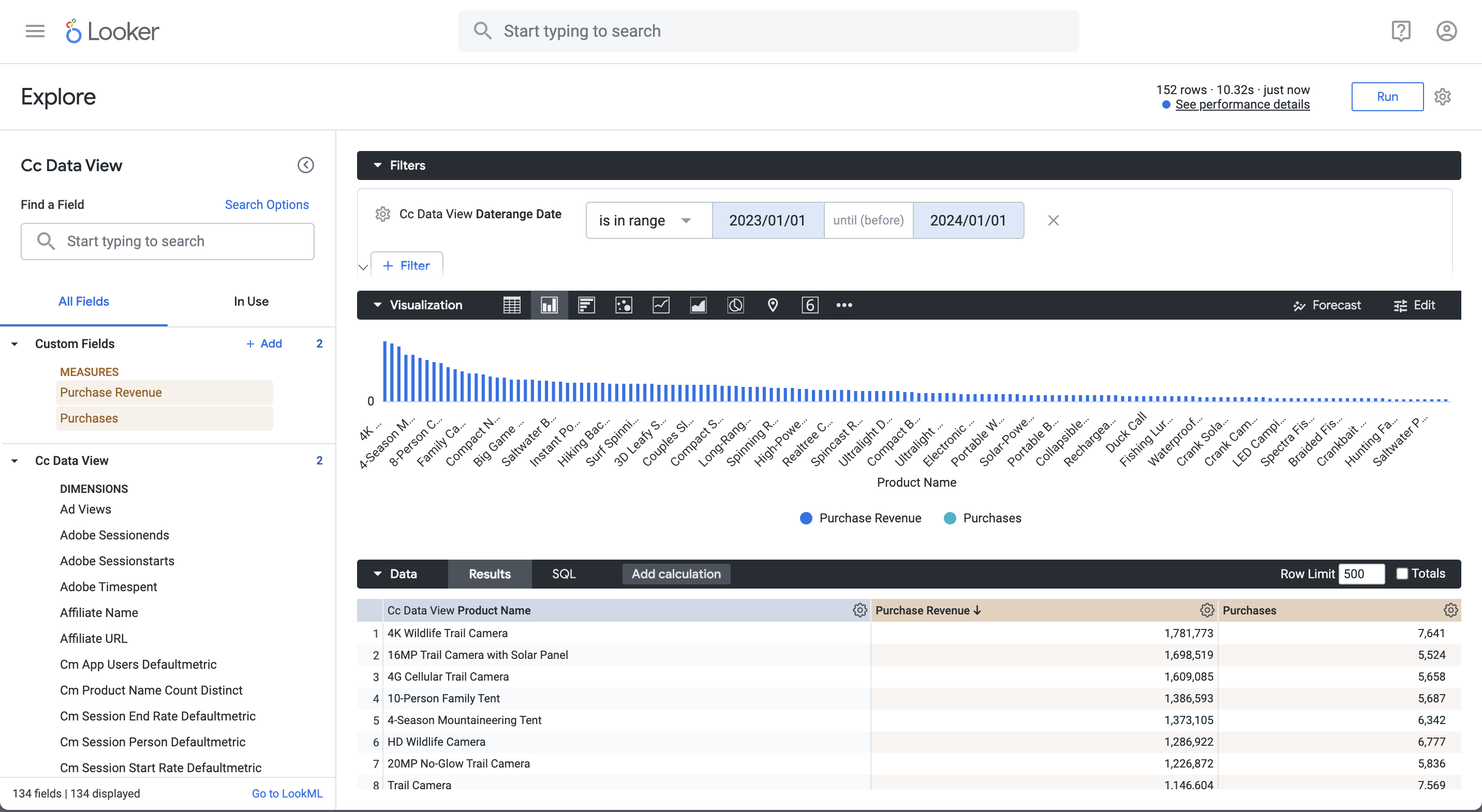
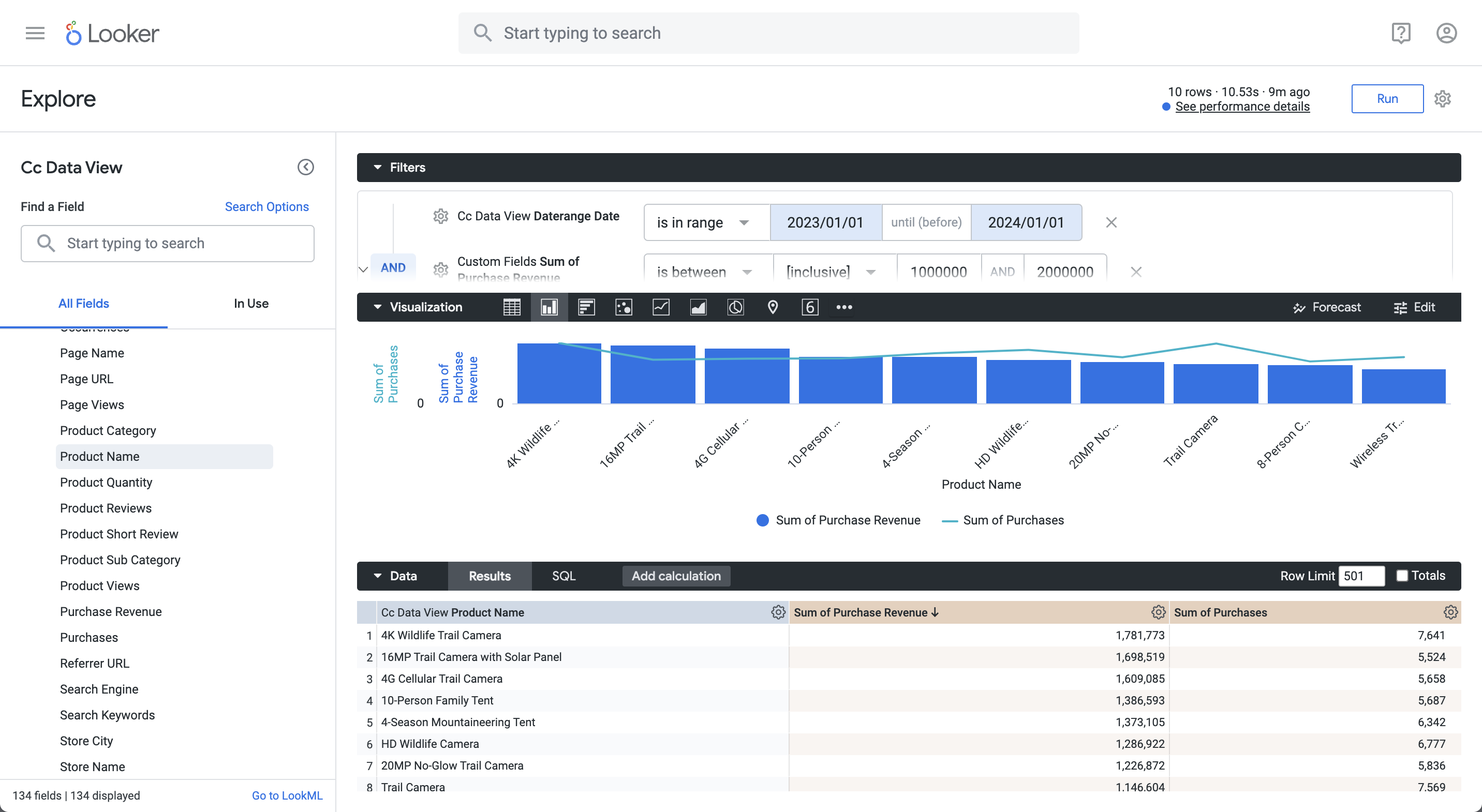
Updates

diff --git a/help/use-cases/data-views/bi-extension-usecases-looker.md b/help/use-cases/data-views/bi-extension-usecases-looker.md
@@ -195,7 +195,7 @@ Tableau Desktop supports the following scenarios for the `FLATTEN` parameter. Se
 
       ![Query service credentials](assets/queryservice-credentials.png){zoomable="yes"}
 
-1. Login to Looker
+1. Log in to Looker
 
    1. Select **[!UICONTROL Admin]** from the left rail.
    1. Select **[!UICONTROL Connections]**.
@@ -223,13 +223,13 @@ Tableau Desktop supports the following scenarios for the `FLATTEN` parameter. Se
    1. Select **[!UICONTROL Projects]**.
    1. Select **[!UICONTROL New Model]** in LookML Projects.
    1. To ensure you do not affect other users. select Enter Development Mode, when prompted.
-   1. In the Create Model experience:
+   1. In the **[!UICONTROL Create Model]** experience:
       1. In **[!UICONTROL ➊ Select Database Connection]**:
          1. Select your database connection in **[!UICONTROL Select database connection]**. For example: **[!UICONTROL example_looker_connection]**.
          1. Name your project in **[!UICONTROL Create a new LookML Project for this model]**. For `example: example_looker_project`.
          1. Select **[!UICONTROL Next]**.
       1. In **[!UICONTROL ➋ Select Tables]**:
-         1. Select **[!UICONTROL public]** and then select ensure your Customer Journey Analytics data view is selected. For example: ![Checkmark](/help/assets/icons/Checkmark.svg) **[!UICONTROL cc_data_view]**.
+         1. Select **[!UICONTROL public]** and then ensure your Customer Journey Analytics data view is selected. For example: ![Checkmark](/help/assets/icons/Checkmark.svg) **[!UICONTROL cc_data_view]**.
          1. Select **[!UICONTROL Next]**.
       1. In **[!UICONTROL ➌ Select Primary Keys]**:
          1. Select **[!UICONTROL Next]**.
@@ -724,16 +724,16 @@ An example **[!UICONTROL Single Dimension Ranked]** panel for the use case:
 1. Select **[!UICONTROL + Filter]** underneath **[!UICONTROL Filters]**.
 1. In the **[!UICONTROL Add Filter]** dialog:
    1. Select **[!UICONTROL ‣ Cc Data View]**
-   1. From the list of fields, select **[!UICONTROL ‣ Daterange Date]** then **[!UICONTROL Daterange Year]**.
+   1. From the list of fields, select **[!UICONTROL ‣ Daterange Date]** then **[!UICONTROL Daterange Date]**.
       ![Looker filter](assets/uc2-looker-filter.png)
 1. Specify the **[!UICONTROL Cc Data View Daterange Date]** filter as **[!UICONTROL is in range]** **[!UICONTROL 2023/01/01]** **[!UICONTROL until (before)]** **[!UICONTROL 2024/01/01]**.
-1. From the **[!UICONTROL ‣ Cc Data View]** section in the left rail: 
-   1. Select **[!UICONTROL Product Name]**.
+1. From the **[!UICONTROL ‣ Cc Data View]** section in the left rail, select **[!UICONTROL Product Name]**.
 1. From the **[!UICONTROL ‣ Custom Fields]** section in the left rail:
-   1. Select **[!UICONTROL Custom Measure]** from the **[!UICONTROL + Add]** dropdown menu. In the **[!UICONTROL Create custom measure]** dialog:
+   1. Select **[!UICONTROL Custom Measure]** from the **[!UICONTROL + Add]** dropdown menu. 
+   1. In the **[!UICONTROL Create custom measure]** dialog:
       1. Select **[!UICONTROL Purchase Revenue]** from the **[!UICONTROL Field to measure]** dropdown menu.
       1. Select **[!UICONTROL Sum]** from the **[!UICONTROL Measure type]** dropdown menu.
-      1. Enter a custom field name for **[!UICONTROL Name]**. For example: `Sum of Purchase Revenue`.
+      1. Enter a custom field name for **[!UICONTROL Name]**. For example: `Purchase Revenue`.
       1. Select the **[!UICONTROL Field details]** tab.
       1. Select **[!UICONTROL Decimals]** from the **[!UICONTROL Format]** dropdown menu and ensure `0` is entered in **[!UICONTROL Decimals]**.
          ![Looker custom metric field](assets/uc5-looker-customfield.png)
@@ -746,8 +746,18 @@ An example **[!UICONTROL Single Dimension Ranked]** panel for the use case:
       1. Select **[!UICONTROL Decimals]** from the **[!UICONTROL Format]** dropdown menu and ensure `0` is entered in **[!UICONTROL Decimals]**.
       1. Select **[!UICONTROL Save]**.
    1. Both fields are automatically added to the Data view. 
+1. Select **[!UICONTROL + Filter]** to add another **[!UICONTROL Filters]** and to limit the data.
+1. In the **[!UICONTROL Add Filter]** dialog, select **[!UICONTROL ‣ Custom Fields]**, then **[!UICONTROL Purchase Revenue]**.
+1. Make the appropriate selections and enter the proposed values, so the filter reads **[!UICONTROL is between inclusive]** `1000000` **[!UICONTROL AND]** `2000000`.
 1. Select **[!UICONTROL Run]**.
 1. Select **[!UICONTROL ‣ Visualization]** to display the line visualization.
+1. Select **[!UICONTROL Edit]** in **[!UICONTROL Visualization]** to update the visualization. In the popup dialog:
+   1. Select the **[!UICONTROL Series]** tab.
+   1. Scroll down to see **[!UICONTROL Purchases]** and change the **[!UICONTROL Type]** to **[!UICONTROL Line]**.
+   1. Select the **[!UICONTROL Y]** tab.
+   1. Drag **[!UICONTROL Purchases]** from the **[!UICONTROL Left 1 ]** container to where it reads **[!UICONTROL *Drag series here to create a new left axis*]**. This action creates a **[!UICONTROL Left 2]** container.
+      ![Looker visualization configuration](assets/uc5-looker-visualization.png)
+   1. Select ![CrossSize75](/help/assets/icons/CrossSize75.svg) next to **[!UICONTROL Edit]** to hide the popup dialog
 
 You should see a visualization and table similar as shown below.
 
@@ -919,14 +929,15 @@ An example **[!UICONTROL Multiple Dimension Ranked]** panel for the use case:
 1. Select **[!UICONTROL + Filter]** underneath **[!UICONTROL Filters]**.
 1. In the **[!UICONTROL Add Filter]** dialog:
    1. Select **[!UICONTROL ‣ Cc Data View]**
-   1. From the list of fields, select **[!UICONTROL ‣ Daterange Date]** then **[!UICONTROL Daterange Year]**.
+   1. From the list of fields, select **[!UICONTROL ‣ Daterange Date]** then **[!UICONTROL Daterange Date]**.
       ![Looker filter](assets/uc2-looker-filter.png)
 1. Specify the **[!UICONTROL Cc Data View Daterange Date]** filter as **[!UICONTROL is in range]** **[!UICONTROL 2023/01/01]** **[!UICONTROL until (before)]** **[!UICONTROL 2024/01/01]**.
 1. From the **[!UICONTROL ‣ Cc Data View]** section in the left rail: 
-   1. Seelect **[!UICONTROL Product Category]**.
+   1. Select **[!UICONTROL Product Category]**.
    1. Select **[!UICONTROL Product Name]**.
 1. From the **[!UICONTROL ‣ Custom Fields]** section in the left rail:
-   1. Select **[!UICONTROL Custom Measure]** from the **[!UICONTROL + Add]** dropdown menu. In the **[!UICONTROL Create custom measure]** dialog:
+   1. Select **[!UICONTROL Custom Measure]** from the **[!UICONTROL + Add]** dropdown menu. 
+   1. In the **[!UICONTROL Create custom measure]** dialog:
       1. Select **[!UICONTROL Purchase Revenue]** from the **[!UICONTROL Field to measure]** dropdown menu.
       1. Select **[!UICONTROL Sum]** from the **[!UICONTROL Measure type]** dropdown menu.
       1. Enter a custom field name for **[!UICONTROL Name]**. For example: `Sum of Purchase Revenue`.
@@ -942,11 +953,19 @@ An example **[!UICONTROL Multiple Dimension Ranked]** panel for the use case:
       1. Select **[!UICONTROL Decimals]** from the **[!UICONTROL Format]** dropdown menu and ensure `0` is entered in **[!UICONTROL Decimals]**.
       1. Select **[!UICONTROL Save]**.
    1. Both fields are automatically added to the Data view.
-1. In the Filters section, select + Filter. In the Add Filter dialog
-   1. Select ‣ Custom Fields, then Purchase Revenue.
+1. In the **[!UICONTROL Filters]** section, select **[!UICONTROL + Filter]**. In the **[!UICONTROL Add Filter]** dialog. Select **[!UICONTROL ‣ Custom Fields]**, then **[!UICONTROL Purchase Revenue]**.
 1. Select **[!UICONTROL is >]** and enter `800000` to limit the results.
 1. Select **[!UICONTROL Run]**.
 1. Select **[!UICONTROL ‣ Visualization]** to display the line visualization.
+1. Select **[!UICONTROL Edit]** in **[!UICONTROL Visualization]** to update the visualization. In the popup dialog:
+   1. Select the **[!UICONTROL Plot]** tab.
+   1. Scroll down and select **[!UICONTROL Edit Chart Config]**.
+   1. Modify the JSON in **[!UICONTROL Chart Config (Override)]** like in the screenshot below, and then select **[!UICONTROL Preview]**.
+      
+      ![Looker vsualization config](assets/uc6-looker-visualization.png)
+
+   1. Select **[!UICONTROL Apply]**.
+   1. Select ![CrossSize75](/help/assets/icons/CrossSize75.svg) next to **[!UICONTROL Edit]** to hide the popup dialog
 
 You should see a visualization and table similar as shown below.
 
@@ -1071,15 +1090,15 @@ Alternatively, you can use the count distinct functionality from Tableau Desktop
 1. Select **[!UICONTROL + Filter]** underneath **[!UICONTROL Filters]**.
 1. In the **[!UICONTROL Add Filter]** dialog:
    1. Select **[!UICONTROL ‣ Cc Data View]**
-   1. From the list of fields, select **[!UICONTROL ‣ Daterange Date]** then **[!UICONTROL Daterange Year]**.
+   1. From the list of fields, select **[!UICONTROL ‣ Daterange Date]** then **[!UICONTROL Daterange Date]**.
       ![Looker filter](assets/uc2-looker-filter.png)
 1. Specify the **[!UICONTROL Cc Data View Daterange Date]** filter as **[!UICONTROL is in range]** **[!UICONTROL 2023/01/01]** **[!UICONTROL until (before)]** **[!UICONTROL 2023/02/01]**.
 1. From the **[!UICONTROL ‣ Cc Data View]** section in the left rail: 
    1. Select **[!UICONTROL Daterange Date]**, then **[!UICONTROL Date]**.
-   1. Select Count Distinct from the **⋮ More** context menu on **[!UICONTROL Product Name]**.
+   1. Select **[!UICONTROL Aggregate ‣ Count Distinct]** from the **⋮ More** context menu on **[!UICONTROL Product Name]**.
       ![Looker Product Name Context menu](assets/uc7-looker-count-distinct.png)
 1. Select **[!UICONTROL Run]**.
-1. Select **[!UICONTROL ‣ Visualization]** and select 6⃣ to display a number visualization.
+1. Select **[!UICONTROL ‣ Visualization]** and select 6⃣ from the toolbar to display a Single value visualization.
 
 You should see a visualization and table similar as shown below.
 
@@ -1088,7 +1107,6 @@ You should see a visualization and table similar as shown below.
 >[!ENDTABS]
 
 +++
-
 
 
 ## Use date range names to filter
@@ -1143,8 +1161,8 @@ Note how the date range defined in the Freeform table visualization overrules th
 1. Select the **[!UICONTROL Sheet 1]** tab at the bottom to switch from **[!UICONTROL Data source]**. In the **[!UICONTROL Sheet 1]** view:
    1. Drag the **[!UICONTROL Daterange Name]** entry from the **[!UICONTROL Tables]** list in the **[!UICONTROL Filters]** shelf.
    1. In the **[!UICONTROL Filter \[Daterange Name\]]** dialog ensure **[!UICONTROL Select from list]** is selected, and select **[!UICONTROL Last Year 2023]** from the list. Select **[!UICONTROL Apply]** and **[!UICONTROL OK]**.
-   1. Drag **[!UICONTROL Daterangemonth]** entry from the **[!UICONTROL Tables]** list and drop the entry in the field next to **[!UICONTROL Rows]**.. Select **[!UICONTROL Daterangemonth]** and select **[!UICONTROL Month]**. The value changes to **[!UICONTROL MONTH(Daterangemonth)]**.
-   1. Drag **[!UICONTROL Occurrences]** entry from the **[!UICONTROL Tables]** list and drop the entry in the field next to **[!UICONTROL Columns]**.. The value changes to **[!UICONTROL SUM(Occurrences)]**.
+   1. Drag **[!UICONTROL Daterangemonth]** entry from the **[!UICONTROL Tables]** list and drop the entry in the field next to **[!UICONTROL Rows]**. Select **[!UICONTROL Daterangemonth]** and select **[!UICONTROL Month]**. The value changes to **[!UICONTROL MONTH(Daterangemonth)]**.
+   1. Drag **[!UICONTROL Occurrences]** entry from the **[!UICONTROL Tables]** list and drop the entry in the field next to **[!UICONTROL Columns]**. The value changes to **[!UICONTROL SUM(Occurrences)]**.
    1. Select **[!UICONTROL Text Table]** from **[!UICONTROL Show Me]**.
    1. Select **[!UICONTROL Swap Rows and Columns]** from the toolbar.
    1. Select **[!UICONTROL Fit Width]** from the **[!UICONTROL Fit]** dropdown menu.
@@ -1179,7 +1197,7 @@ You should see a visualization and table similar as shown below.
 
 ## Use filter names to filter
 
-In this use case, you want to use an existing filter for the Fishing product category, that you have defined in Customer Journey Analytics, to filter and report on product names and occurrences (events) during January 2023.
+In this use case, you want to use an existing filter for the Fishing product category, that you have defined in Customer Journey Analytics. To filter and report on product names and occurrences (events) during January 2023.
 
 +++ Customer Journey Analytics
 
@@ -1237,7 +1255,7 @@ You then can use that filter in an example **[!UICONTROL Using Date Range Names 
    1. In the **[!UICONTROL Filter Field \[Daterange\]]** dialog, select **[!UICONTROL Range of Dates]** and select **[!UICONTROL Next >]**.
    1. In the **[!UICONTROL Filter \[Daterange]]** dialog, select **[!UICONTROL Range of dates]**, and select `01/01/2023` - `01/02/2023`. Select **[!UICONTROL Apply]** and **[!UICONTROL OK]**.
    1. Drag **[!UICONTROL Product Name]** from the **[!UICONTROL Tables]** list to **[!UICONTROL Rows]**.
-   1. Drag **[!UICONTROL Occurrences]** entry from the **[!UICONTROL Tables]** list and drop the entry in the field next to **[!UICONTROL Columns]**.. The value changes to **[!UICONTROL SUM(Occurrences)]**.
+   1. Drag **[!UICONTROL Occurrences]** entry from the **[!UICONTROL Tables]** list and drop the entry in the field next to **[!UICONTROL Columns]**. The value changes to **[!UICONTROL SUM(Occurrences)]**.
    1. Select **[!UICONTROL Text Table]** from **[!UICONTROL Show Me]**.
    1. Select **[!UICONTROL Fit Width]** from the **[!UICONTROL Fit]** dropdown menu.
 
@@ -1251,14 +1269,14 @@ You then can use that filter in an example **[!UICONTROL Using Date Range Names 
 1. Select **[!UICONTROL + Filter]** underneath **[!UICONTROL Filters]**.
 1. In the **[!UICONTROL Add Filter]** dialog:
    1. Select **[!UICONTROL ‣ Cc Data View]**
-   1. From the list of fields, select **[!UICONTROL ‣ Daterange Date]** then **[!UICONTROL Daterange Year]**.
+   1. From the list of fields, select **[!UICONTROL ‣ Daterange Date]** then **[!UICONTROL Daterange Date]**.
       ![Looker filter](assets/uc2-looker-filter.png)
 1. Specify the **[!UICONTROL Cc Data View Daterange Date]** filter as **[!UICONTROL is in range]** **[!UICONTROL 2023/01/01]** **[!UICONTROL until (before)]** **[!UICONTROL 2023/02/01]**.
 1. Select **[!UICONTROL + Filter]** underneath **[!UICONTROL Filters]** to add another filter.
 1. In the **[!UICONTROL Add Filter]** dialog:
    1. Select **[!UICONTROL ‣ Cc Data View]**
    1. From the list of fields, select **[!UICONTROL ‣ Filter name]**.
-1. Ensure **[!UICONTROL is]** as the the selection for the filter.
+1. Ensure **[!UICONTROL is]** the selection for the filter.
 1. Select **[!UICONTROL Fishing Products]** from the list of possible values.
 1. From the **[!UICONTROL ‣ Cc Data View]** section in the left rail: 
    1. Select **[!UICONTROL Product Name]**.
@@ -1338,7 +1356,7 @@ You then can use that filter in an example **[!UICONTROL Using Dimension Values 
    1. In the **[!UICONTROL Filter Field \[Daterange\]]** dialog, select **[!UICONTROL Range of Dates]** and select **[!UICONTROL Next >]**.
    1. In the **[!UICONTROL Filter \[Daterange]]** dialog, select **[!UICONTROL Range of dates]**, and select `01/01/2023` - `1/2/2023`. Select **[!UICONTROL Apply]** and **[!UICONTROL OK]**.
    1. Drag **[!UICONTROL Product Name]** from the **[!UICONTROL Tables]** list to **[!UICONTROL Rows]**.
-   1. Drag **[!UICONTROL Occurrences]** entry from the **[!UICONTROL Tables]** list and drop the entry in the field next to **[!UICONTROL Columns]**.. The value changes to **[!UICONTROL SUM(Occurrences)]**.
+   1. Drag **[!UICONTROL Occurrences]** entry from the **[!UICONTROL Tables]** list and drop the entry in the field next to **[!UICONTROL Columns]**. The value changes to **[!UICONTROL SUM(Occurrences)]**.
    1. Select **[!UICONTROL Text Table]** from **[!UICONTROL Show Me]**.
    1. Select **[!UICONTROL Fit Width]** from the **[!UICONTROL Fit]** dropdown menu.
 
@@ -1353,22 +1371,21 @@ You then can use that filter in an example **[!UICONTROL Using Dimension Values 
 1. Select **[!UICONTROL + Filter]** underneath **[!UICONTROL Filters]**.
 1. In the **[!UICONTROL Add Filter]** dialog:
    1. Select **[!UICONTROL ‣ Cc Data View]**
-   1. From the list of fields, select **[!UICONTROL ‣ Daterange Date]** then **[!UICONTROL Daterange Year]**.
+   1. From the list of fields, select **[!UICONTROL ‣ Daterange Date]** then **[!UICONTROL Daterange Date]**.
       ![Looker filter](assets/uc2-looker-filter.png)
 1. Specify the **[!UICONTROL Cc Data View Daterange Date]** filter as **[!UICONTROL is in range]** **[!UICONTROL 2023/01/01]** **[!UICONTROL until (before)]** **[!UICONTROL 2023/02/01]**.
 1. Select **[!UICONTROL + Filter]** underneath **[!UICONTROL Filters]** to add another filter.
 1. In the **[!UICONTROL Add Filter]** dialog:
    1. Select **[!UICONTROL ‣ Cc Data View]**
    1. From the list of fields, select **[!UICONTROL ‣ Product Category]**.
-1. Ensure **[!UICONTROL is]** as the the selection for the filter.
+1. Ensure **[!UICONTROL is]** as the selection for the filter.
 1. Select **[!UICONTROL Hunting Products]** from the list of possible values.
 1. From the **[!UICONTROL ‣ Cc Data View]** section in the left rail: 
    1. Select **[!UICONTROL Product Name]**.
    1. Select **[!UICONTROL Count]** underneath **[!UICONTROL MEASURES]** in the left rail (at the bottom).
 1. Select **[!UICONTROL Run]**.
-1. Select **[!UICONTROL ‣ Visualization]**.
 
-You should see a visualization and table similar as shown below.
+You should see a similar table as shown below.
 
 ![Looker count distinct](assets/uc10-looker-result.png)
 
@@ -1518,7 +1535,7 @@ limit 1000001
    1. In the **[!UICONTROL Filter Field \[Daterange\]]** dialog, select **[!UICONTROL Range of Dates]** and select **[!UICONTROL Next >]**.
    1. In the **[!UICONTROL Filter \[Daterange]]** dialog, select **[!UICONTROL Range of dates]**, and select `01/01/2023` - `1/2/2023`. Select **[!UICONTROL Apply]** and **[!UICONTROL OK]**.
    1. Drag **[!UICONTROL Product Name]** from the **[!UICONTROL Tables]** list and drop the entry in the field next to **[!UICONTROL Rows]**.
-   1. Drag **[!UICONTROL Purchases]** entry from the **[!UICONTROL Tables]** list and drop the entry in the field next to **[!UICONTROL Columns]**.. The value changes to **[!UICONTROL SUM(Purchases)]**.
+   1. Drag **[!UICONTROL Purchases]** entry from the **[!UICONTROL Tables]** list and drop the entry in the field next to **[!UICONTROL Columns]**. The value changes to **[!UICONTROL SUM(Purchases)]**.
    1. Drag **[!UICONTROL Purchase Revenue]** entry from the **[!UICONTROL Tables]** list and drop the entry in the field next to **[!UICONTROL Columns]**, next to **[!UICONTROL SUM(Purchases)]**. The value changes to **[!UICONTROL SUM(Purchase Revenue)]**.
    1. Select **[!UICONTROL Text Table]** from **[!UICONTROL Show Me]**.
    1. Select **[!UICONTROL Fit Width]** from the **[!UICONTROL Fit]** dropdown menu.
@@ -1547,13 +1564,13 @@ GROUP BY 1
 1. Select **[!UICONTROL + Filter]** underneath **[!UICONTROL Filters]**.
 1. In the **[!UICONTROL Add Filter]** dialog:
    1. Select **[!UICONTROL ‣ Cc Data View]**
-   1. From the list of fields, select **[!UICONTROL ‣ Daterange Date]** then **[!UICONTROL Daterange Year]**.
+   1. From the list of fields, select **[!UICONTROL ‣ Daterange Date]** then **[!UICONTROL Daterange Date]**.
       ![Looker filter](assets/uc2-looker-filter.png)
 1. Specify the **[!UICONTROL Cc Data View Daterange Date]** filter as **[!UICONTROL is in range]** **[!UICONTROL 2023/01/01]** **[!UICONTROL until (before)]** **[!UICONTROL 2023/02/01]**.
-1. From the **[!UICONTROL ‣ Cc Data View]** section in the left rail: 
-   1. Select **[!UICONTROL Product Name]**.
-From the **[!UICONTROL ‣ Custom Fields]** section in the left rail:
-   1. Select **[!UICONTROL Custom Measure]** from the **[!UICONTROL + Add]** dropdown menu. In the **[!UICONTROL Create custom measure]** dialog:
+1. From the **[!UICONTROL ‣ Cc Data View]** section in the left rail, select **[!UICONTROL Product Name]**.
+1. From the **[!UICONTROL ‣ Custom Fields]** section in the left rail:
+   1. Select **[!UICONTROL Custom Measure]** from the **[!UICONTROL + Add]** dropdown menu. 
+   1. In the **[!UICONTROL Create custom measure]** dialog:
       1. Select **[!UICONTROL Purchase Revenue]** from the **[!UICONTROL Field to measure]** dropdown menu.
       1. Select **[!UICONTROL Sum]** from the **[!UICONTROL Measure type]** dropdown menu.
       1. Enter a custom field name for **[!UICONTROL Name]**. For example: `Sum of Purchase Revenue`.
@@ -1731,7 +1748,7 @@ limit 1000001
    1. In the **[!UICONTROL Filter Field \[Daterange\]]** dialog, select **[!UICONTROL Range of Dates]** and select **[!UICONTROL Next >]**.
    1. In the **[!UICONTROL Filter \[Daterange]]** dialog, select **[!UICONTROL Relative dates]**, select **[!UICONTROL Years]**, and select **[!UICONTROL Previous years]**. Select **[!UICONTROL Apply]** and **[!UICONTROL OK]**.
    1. Drag **[!UICONTROL Product Name]** from the **[!UICONTROL Tables]** list to **[!UICONTROL Rows]**.
-   1. Drag **[!UICONTROL Occurrences]** entry from the **[!UICONTROL Tables]** list and drop the entry in the field next to **[!UICONTROL Columns]**.. The value changes to **[!UICONTROL SUM(Occurrences)]**.
+   1. Drag **[!UICONTROL Occurrences]** entry from the **[!UICONTROL Tables]** list and drop the entry in the field next to **[!UICONTROL Columns]**. The value changes to **[!UICONTROL SUM(Occurrences)]**.
    1. Select **[!UICONTROL Text Table]** from **[!UICONTROL Show Me]**.
    1. Select **[!UICONTROL Fit Width]** from the **[!UICONTROL Fit]** dropdown menu.
    1. Select **[!UICONTROL Product Name]** in **[!UICONTROL Rows]**. Select **[!UICONTROL Filter]** from the dropdown menu.
@@ -1785,7 +1802,7 @@ GROUP BY 1
 1. Select **[!UICONTROL + Filter]** underneath **[!UICONTROL Filters]**.
 1. In the **[!UICONTROL Add Filter]** dialog:
    1. Select **[!UICONTROL ‣ Cc Data View]**
-   1. From the list of fields, select **[!UICONTROL ‣ Daterange Date]** then **[!UICONTROL Daterange Year]**.
+   1. From the list of fields, select **[!UICONTROL ‣ Daterange Date]** then **[!UICONTROL Daterange Date]**.
       ![Looker filter](assets/uc2-looker-filter.png)
 1. Specify the **[!UICONTROL Cc Data View Daterange Date]** filter as **[!UICONTROL is in range]** **[!UICONTROL 2023/01/01]** **[!UICONTROL until (before)]** **[!UICONTROL 2024/01/01]**.
 1. From the **[!UICONTROL ‣ Cc Data View]** section in the left rail: 
@@ -1862,20 +1879,20 @@ Calculated metrics that you define in Customer Journey Analytics are identified 
 Date ranges that you define in Customer Journey Analytics are available as part of the **[!UICONTROL daterangeName]** field. When you use a **[!UICONTROL daterangeName]** field, you can specify which date range to use.
 
 **Custom transformations**
-Power BI Desktop provides custom transformation functionality using [Data Analysis Expressions (DAX)](https://learn.microsoft.com/en-us/dax/dax-overview). As an example, you want to execute the Single dimension ranked use case with product names in lower case.
+Power BI Desktop provides custom transformation functionality using [Data Analysis Expressions (DAX)](https://learn.microsoft.com/en-us/dax/dax-overview). As an example, you want to execute the [Single dimension ranked](#single-dimension-ranked) use case with product names in lower case.
 
 1. In the report view, select the bar visualization.
-1. Select product_name in the Data pane.
-1. Select New column in the toolbar.
+1. Select **[!UICONTROL product_name]** in the Data pane.
+1. Select **[!UICONTROL New column]** in the toolbar.
 1. In the formula editor, define a new column named `product_name_lower`, like `product_name_lower = LOWER('public.cc_data_view[product_name])`.
    ![Power BI Desktop Transformation to Lower](assets/uc14-powerbi-transformation.png){zoomable="yes"}
-1. Ensure you select the new product_name_lower column in the Data pane instead of the product_name column.
-1. Select Report as Table from ![More](/help/assets/icons/More.svg) in the table visualization.
+1. Ensure you select the new **[!UICONTROL product_name_lower]** column in the **[!UICONTROL Data]** pane instead of the **[!UICONTROL product_name]** column.
+1. Select **[!UICONTROL Report as Table]** from ![More](/help/assets/icons/More.svg) in the table visualization.
 
    Your Power BI Desktop should look like below. 
    ![Power BI Desktop Transformation Final](assets/uc14-powerbi-final.png){zoomable="yes"}
 
-The custom transformation result in an updates to SQL queries. See the use of the `lower` function in the SQL example below:
+The custom transformation result in an update to SQL queries. See the use of the `lower` function in the SQL example below:
 
 ```sql
 select "_"."product_name_lower",
@@ -1938,7 +1955,7 @@ Calculated metrics that you define in Customer Journey Analytics are identified 
 Date ranges that you define in Customer Journey Analytics are available as part of the **[!UICONTROL Daterange Name]** field. When you use a **[!UICONTROL Daterange Name]** field, you can specify which date range to use.
 
 **Custom transformations**
-Tableau Desktop provides custom transformation functionality using [Calculated Fields](https://help.tableau.com/current/pro/desktop/en-us/calculations_calculatedfields_create.htm). As an example, you want to execute the Single dimension ranked use case with product names in lower case.
+Tableau Desktop provides custom transformation functionality using [Calculated Fields](https://help.tableau.com/current/pro/desktop/en-us/calculations_calculatedfields_create.htm). As an example, you want to execute the [Single dimension ranked](#single-dimension-ranked) use case with product names in lower case.
 
 1. Select **[!UICONTROL Analysis]** > **[!UICONTROL Create Calculated Field]** from the main menu.
    1. Define **[!UICONTROL Lowercase Product Name]** using the function `LOWER([Product Name])`.
@@ -1963,6 +1980,57 @@ FROM "public"."cc_data_view" "cc_data_view"
 WHERE (("cc_data_view"."daterange" >= (DATE '2023-01-01')) AND ("cc_data_view"."daterange" <= (DATE '2023-12-31')))
 GROUP BY 1
 HAVING ((SUM("cc_data_view"."purchase_revenue") >= 999999.99999998999) AND (SUM("cc_data_view"."purchase_revenue") <= 2000000.00000002))
+```
+
+>[!TAB Looker]
+
+The Customer Journey Analytics objects are available c in the **[!UICONTROL Explore]** interface. And are retrieved as part of setting up your connection, project, and model in Looker. For example, **[!UICONTROL cc_data_view]**. The name of the view is the same as the External ID that you have defined for your data view in Customer Journey Analytics. For example, data view with **[!UICONTROL Title]** `C&C - Data View` and **[!UICONTROL External ID]** `cc_data_view`.
+
+**Dimensions**
+Dimensions from Customer Journey Analytics are listed as **[!UICONTROL DIMENSION]** in the **[!UICONTROL Cc Data View]** left rail. The dimension is defined in your Customer Journey Analytics data view. For example, dimension **[!UICONTROL Product Name]** in Customer Journey Analytics has a **[!UICONTROL DIMENSION]** **[!UICONTROL Product Name]**, which is the name for the dimension in Looker. 
+Date range dimensions from Customer Journey Analytics, like **[!UICONTROL Day]**, **[!UICONTROL Week]**, **[!UICONTROL Month]**, and more are available as **[!UICONTROL Daterangeday Date]**, **[!UICONTROL Daterangeweek Date]**, **[!UICONTROL Daterangemonth Date]**, and more.  When you use a date range dimension, you have to select an appropriate definition of date or time. For example, **[!UICONTROL Year]**, **[!UICONTROL Quarter]**, **[!UICONTROL Month]**, **[!UICONTROL Date]**.
+
+**Metrics**
+Metrics from Customer Journey Analytics are listed as **[!UICONTROL DIMENSION]** in in the **[!UICONTROL Cc Data View]** left rail. For example, metric **[!UICONTROL Purchase Revenue]** in Customer Journey Analytics has a **[!UICONTROL DIMENSION]** **[!UICONTROL Purchase Revenue]**. To actually use as a metric, create a custom measure field as shown in the examples above, or use the shortcut on a dimension. For example, **[!UICONTROL ⋮]**, select **[!UICONTROL Aggregate]**, and then select **[!UICONTROL Sum]**..
+
+**Filters**
+Filters that you define in Customer Journey Analytics are available as part of the **[!UICONTROL Filter Name]** field. When you use a **[!UICONTROL Filter Name]** field in Looker, you can specify which filter to use.
+
+**Calculated metrics**
+Calculated metrics that you define in Customer Journey Analytics are identified by the [!UICONTROL Title] you have defined for the calculated metric. For example, calculated metric **[!UICONTROL Product Name (Count Distinct)]** has [!UICONTROL Title] **[!UICONTROL Product Name (Count Distinct)]** and is shown as **[!UICONTROL Cm Product Name Count Distinct]** in Looker.
+
+**Date ranges**
+Date ranges that you define in Customer Journey Analytics are available as part of the **[!UICONTROL Daterange Name]** field. When you use a **[!UICONTROL Daterange Name]** field, you can specify which date range to use.
+
+**Custom transformations**
+Looker provides custom transformation functionality using custom field builders, as shown above. As an example, you want to execute the [Single dimension ranked](#single-dimension-ranked) use case with product names in lower case.
+
+1. From the **[!UICONTROL ‣ Custom Fields]** section in the left rail:
+   1. Select **[!UICONTROL Custom Dimension]** from the **[!UICONTROL + Add]** dropdown menu. 
+   1. Enter `lower(${cc_data_view.product_name})` in the **[!UICONTROL Expression]** text area. You are assisted with the correct syntax when you start to type `Product Name`.
+      ![Looker transformation example](assets/uc14-looker-transformation.png)
+   1. Enter `product name` as the **[!UICONTROL Name]**.
+   1. Select **[!UICONTROL Save]**.
+
+You should see a similar table as shown below.
+
+![Looker transformation result](assets/uc14-looker-result.png)
+
+
+The custom transformation result in an updates to SQL queries. See the use of the `LOWER` function in the SQL example below:
+
+```sql
+SELECT
+    LOWER((cc_data_view."product_name")) AS "product_name",
+    COALESCE(SUM(CAST(( cc_data_view."purchase_revenue"  ) AS DOUBLE PRECISION)), 0) AS "sum_of_purchase_revenue",
+    COALESCE(SUM(CAST(( cc_data_view."purchases"  ) AS DOUBLE PRECISION)), 0) AS "sum_of_purchases"
+FROM public.cc_data_view  AS cc_data_view
+WHERE ((( cc_data_view."daterange"  ) >= (DATE_TRUNC('day', DATE '2023-01-01')) AND ( cc_data_view."daterange"  ) < (DATE_TRUNC('day', DATE '2024-01-01'))))
+GROUP BY
+    1
+ORDER BY
+    2 DESC
+FETCH NEXT 500 ROWS ONLY
 ```
 
 >[!ENDTABS]
@@ -2107,7 +2175,7 @@ Tableau supports [drill mode](https://learn.microsoft.com/en-us/power-bi/consume
 
 ![Tableau drill down](assets/uc15-tableau-drilldown.png){zoomable="yes"}
 
-Drill down will update the visualization with purchase revenue for products within the selected product category.
+Drill down updates the visualization with purchase revenue for products within the selected product category.
 
 ![Tableau drill up](assets/uc15-tableau-drillup.png){zoomable="yes"}
 
@@ -2179,12 +2247,12 @@ Each of the supported BI tools has some caveats in working with the Customer Jou
 
 >[!TAB Power BI Desktop] 
 
-* Power BI Desktop Advanced date range filtering is exclusive.  For your end date, you need to select one past the day you want to report on. For example **[!UICONTROL is on or after]** `1/1/2023` **[!UICONTROL and before]** `1/2/2023`.
+* Power BI Desktop Advanced date range filtering is exclusive.  For your end date, you need to select one past the day you want to report on. For example, **[!UICONTROL is on or after]** `1/1/2023` **[!UICONTROL and before]** `1/2/2023`.
 * Power BI Desktop defaults to **[!UICONTROL Import]** when you create a connection. Please ensure you use **[!UICONTROL Direct Query]**.
 * Power BI Desktop exposes data transformations through Power Query.  Power Query primarily works with Import type connections so a many transformations that you apply like date or string functions throw an error saying you need to switch to an Import type connection.  If you need to transform data at query time, you should use derived dimensions and metrics so Power BI doesn't need to do the transforms itself.
 * Power BI Desktop does not understand how to handle date-time type columns so the **[!UICONTROL daterange*X*]** dimensions like **[!UICONTROL daterangehour]** and **[!UICONTROL daterangeminute]** are not supported.
 * Power BI Desktop by default tries to make multiple connections using up more Query Service sessions.  Go in to the Power BI settings for your project and disable parallel queries.
-* Power BI Desktop does all sorting and limiting client-side. Power BI Desktop also has different semantics for top *X* filtering that includes tied values. So you cannot create the same sorting and limiting as you can do in Analysis Workspace.
+* Power BI Desktop does all the sorting and limiting client-side. Power BI Desktop also has different semantics for top *X* filtering that includes tied values. So, you cannot create the same sorting and limiting as you can do in Analysis Workspace.
 * Earlier versions of the Power BI Desktop October 2024 release break PostgreSQL data sources. Ensure you use the version mentioned in this article.
 
 >[!TAB Tableau Desktop]
@@ -2195,11 +2263,11 @@ Each of the supported BI tools has some caveats in working with the Customer Jou
 
 >[!TAB Looker]
 
-* Looker has a maximun number of connections per node setting that is required to be between 5-100.  You cannot set this to 1.  This implies that a Looker connection always uses at a minimum 5 of the available Query Service sessions.
-* Looker lets you create a project with a view based on a Customer Journey Analytics Data view. Looker then creates a model based on the dimensions and metrics, available in the Data view, using LookerML.  This Project View does not automatically update to match the source.  If you make changes or additions to the CJA Data View dimensions, metrics, calculated-metrics, or filters, then these changes do not automatically show up in Looker.  You will have to manually update the Project View or create a new Project.
+* Looker has a maximum number of connections per node setting that is required to be between 5-100.  You cannot set this value to 1.  This setting implies that a Looker connection always uses at a minimum 5 of the available Query Service sessions.
+* Looker lets you create a project with a view based on a Customer Journey Analytics Data view. Looker then creates a model based on the dimensions and metrics, available in the Data view, using LookerML.  This Project View does not automatically update to match the source.  If you make changes or additions to the CJA Data View dimensions, metrics, calculated-metrics, or filters, then these changes do not automatically show up in Looker.  You have to manually update the Project View or create a new Project.
 * Looker's user-experience on date or date-time fields like **[!UICONTROL Daterange Date]** or **[!UICONTROL Daterangeday Date]** is confusing. 
-* Looker's date range is exclusive instead of inclusive.  The **[!UICONTROL until (before)]** is in grey so you may miss that aspect.  For your end day you need to select one past the day you want to report on.
-* Looker doesn't automatically treat your metrics as metrics.  When you select a metric, by default Looker will try to treat the metric as a dimension in the query.  To treat a metrics as a metric, you need to create a custom field as illustrated above. As a shortcut you can select **[!UICONTROL ⋮]**, select **[!UICONTROL Aggregate]**, and then select **[!UICONTROL Sum]**. 
+* Looker's date range is exclusive instead of inclusive.  The **[!UICONTROL until (before)]** is in gray so you may miss that aspect.  For your end day, you need to select one past the day you want to report on.
+* Looker doesn't automatically treat your metrics as metrics.  When you select a metric, by default Looker tries to treat the metric as a dimension in the query.  To treat a metrics as a metric, you need to create a custom field as illustrated above. As a shortcut you can select **[!UICONTROL ⋮]**, select **[!UICONTROL Aggregate]**, and then select **[!UICONTROL Sum]**. 
 
 >[!ENDTABS]
 
